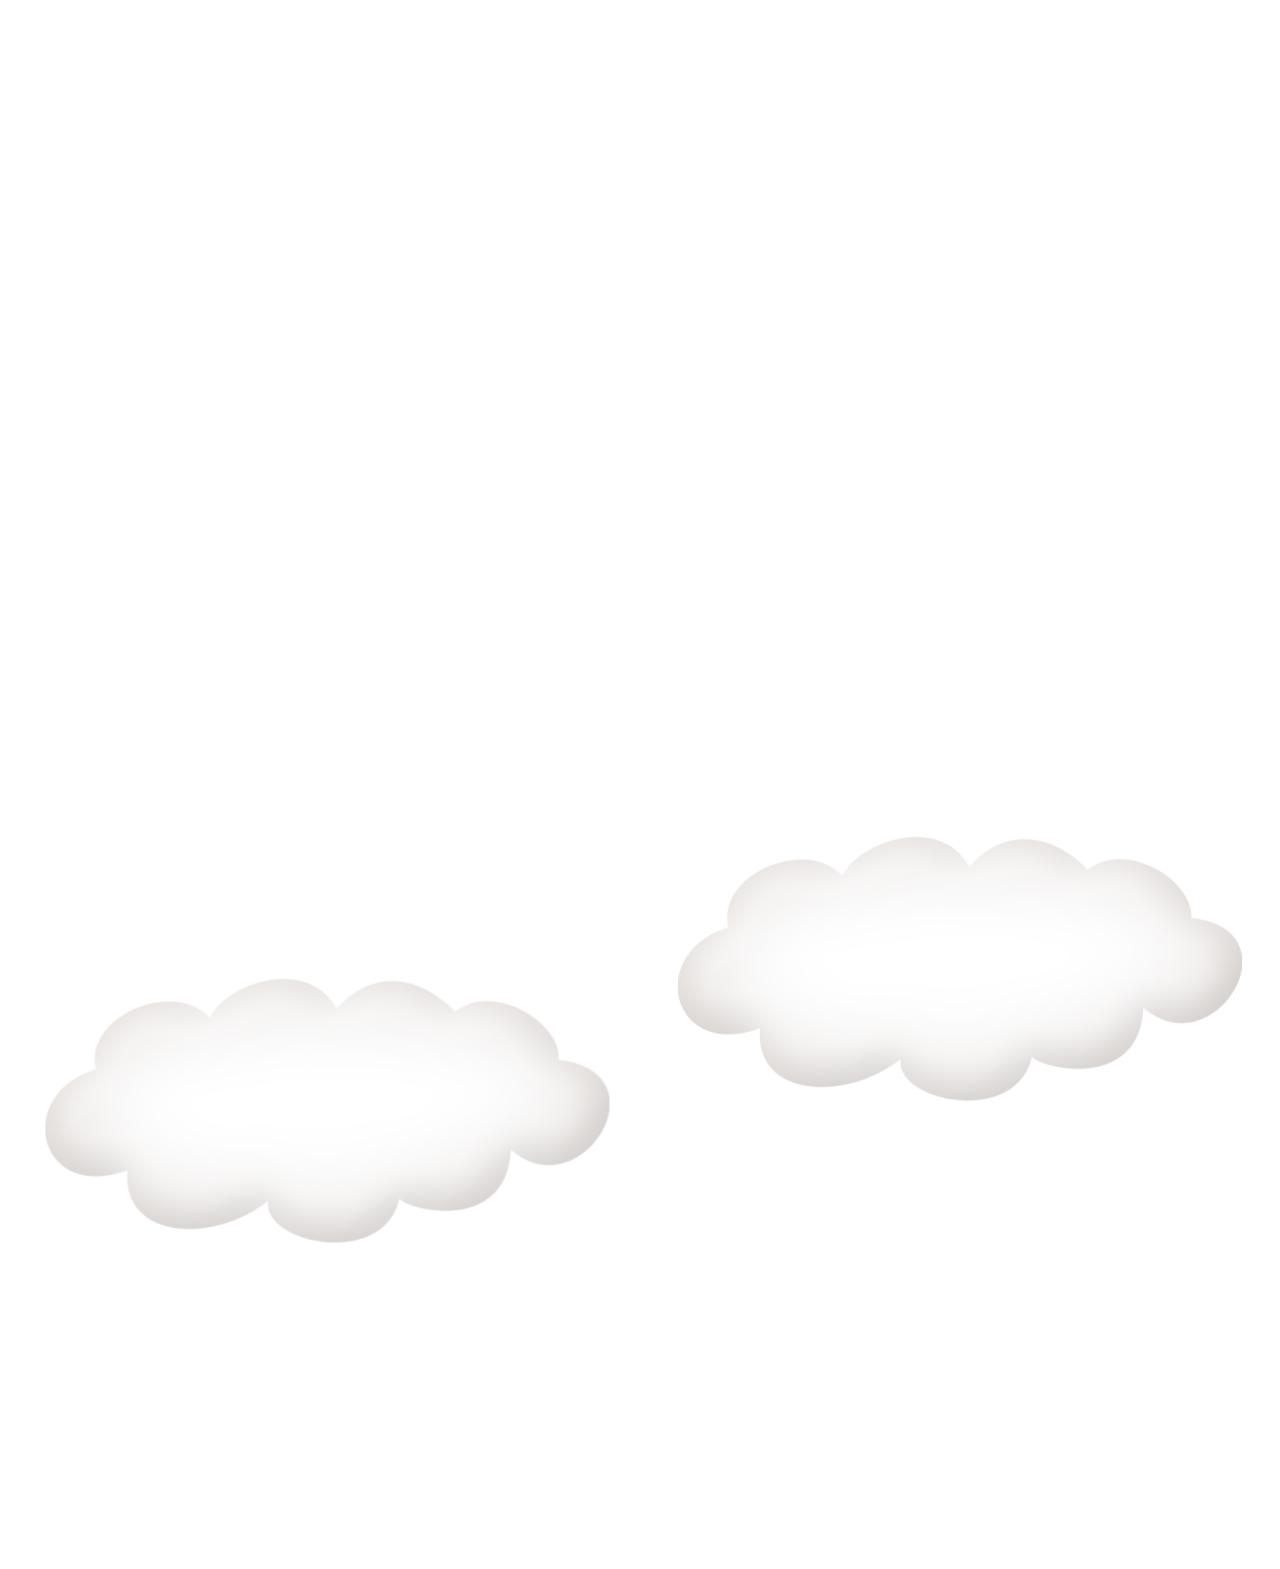
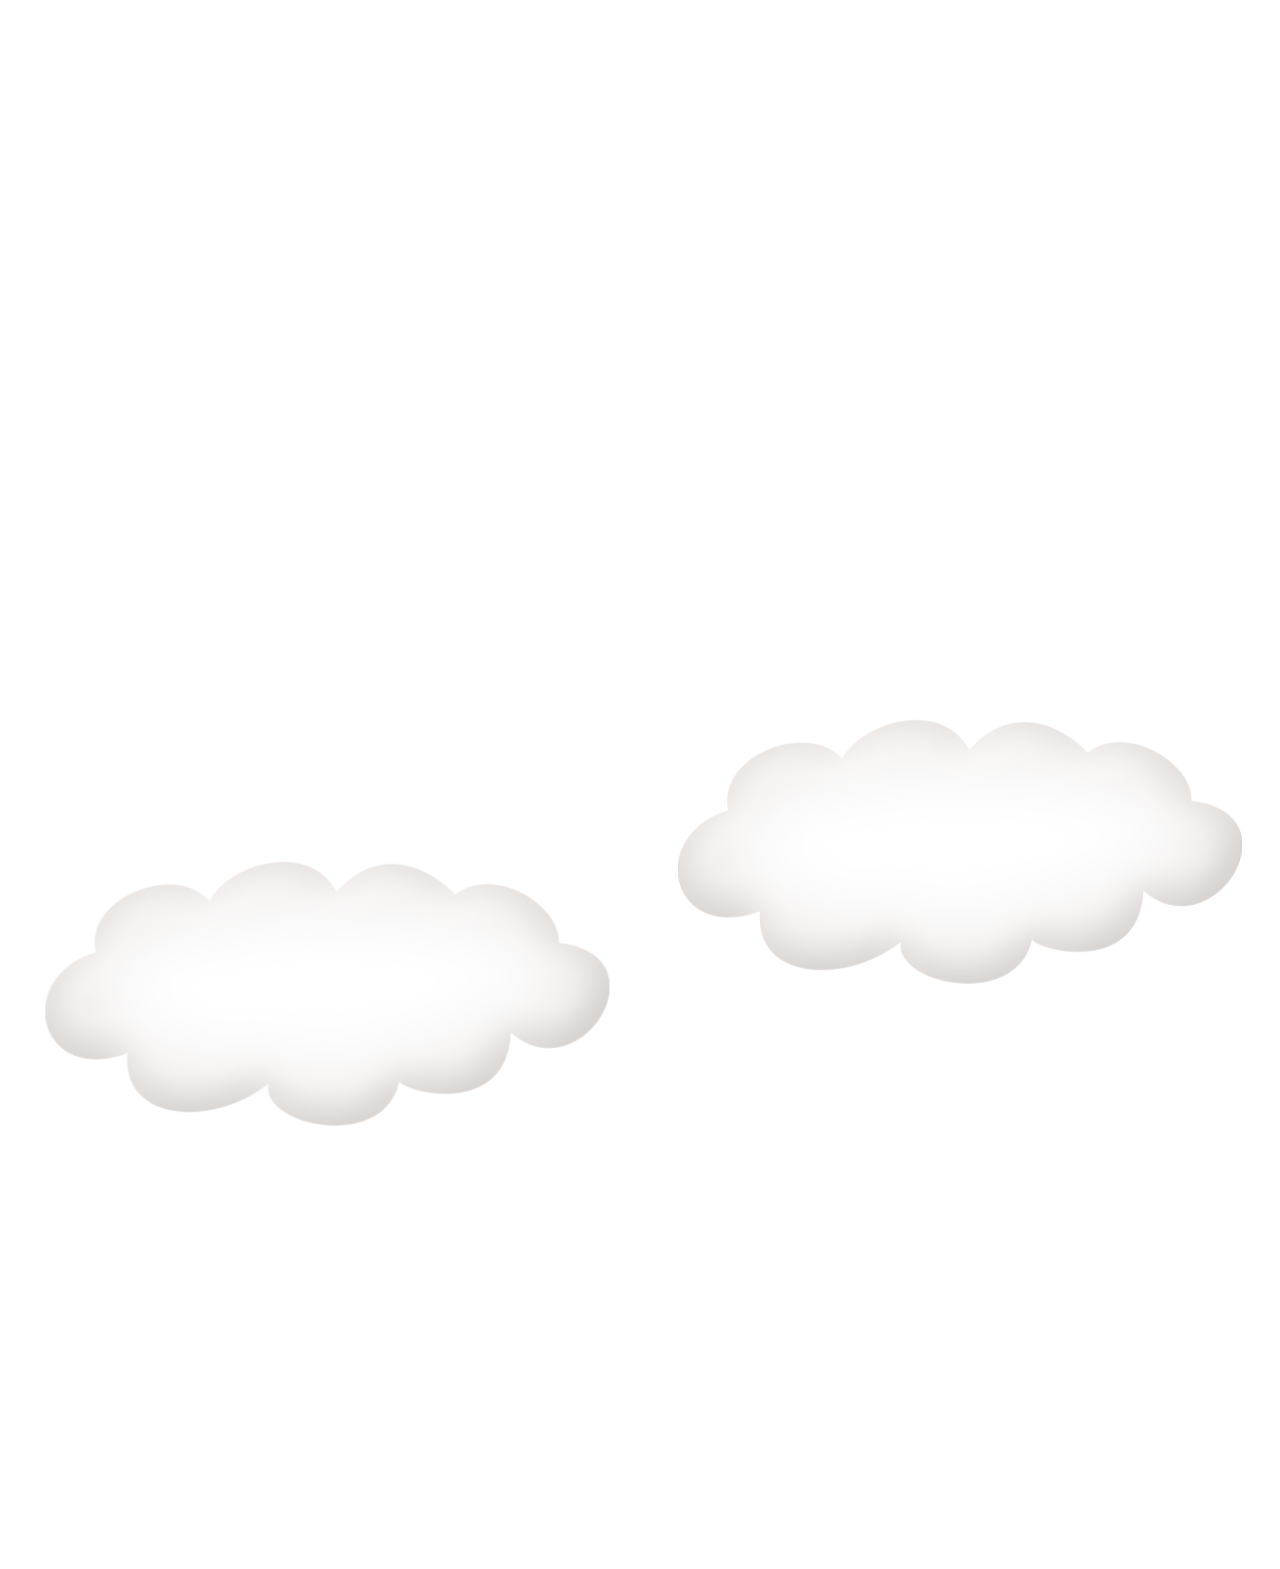
Se corrige opacidad en la ultima seccion, y se corrigen las nubes

diff --git a/TP4/EntregaFinal/styles/section5.css b/TP4/EntregaFinal/styles/section5.css
@@ -27,6 +27,7 @@
   border-top-right-radius: 0;
   border-bottom-right-radius: 0;
   box-shadow: 4px 4px   var(--color--box--shadow);
+  z-index: 10;
 }
 .input-subscription::placeholder{
   font-size: var(--font-size-20);
@@ -49,7 +50,7 @@
   border-bottom-right-radius: 111px;
   box-shadow: 4px 4px   var(--color--box--shadow);
   margin-left: -10px;
-  
+  z-index: 12;
 }
 .container-input{
   display: flex;
@@ -57,7 +58,10 @@
 }
 
 .TEEN-ERSB{
+  position: absolute;
+  background-color: white;
   margin-top: var(--spacing-1);margin-bottom: var(--spacing-4-25);
+  z-index: 14;
 }
 .nube-left{
   transform: translateX(-50px) translateY(-864px) rotate(180deg);
@@ -99,7 +103,7 @@
   bottom: 0;
   margin-bottom: var(--spacing-6);
   margin-left: var(--spacing-17-407);
-  z-index: 6;
+  z-index: 4;
 }
 .loma, .fondo{
   position: absolute;
@@ -135,14 +139,15 @@
   background-size: cover;
 }
 
-.layer-4{
+.layer-1{
   background-image: url("../png/layer4.png");
   animation: scroll 4s infinite linear;
-  z-index: 1;
+  
 }
 .layer-3{
   background-image: url("../png/layer3.png");
   animation: scroll 7s infinite linear;
+ 
  
 }
 .layer-2{
